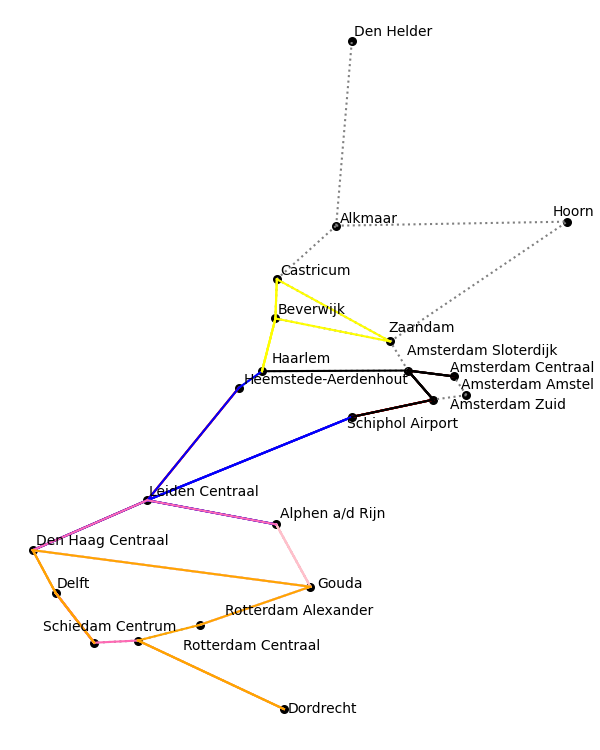
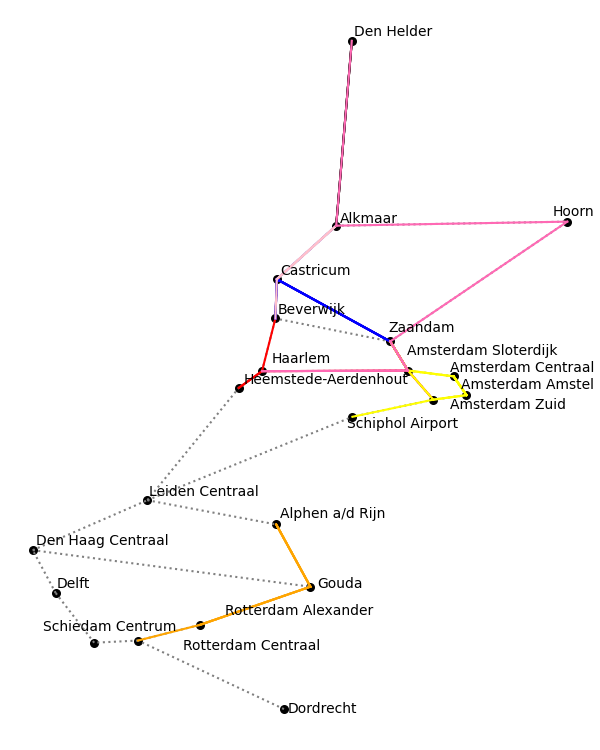
Visualisatie doet het weer

diff --git a/spoorschavuiten/code/visualization/visualize.py b/spoorschavuiten/code/visualization/visualize.py
@@ -5,7 +5,7 @@ from code.classes.classes import Schedule
 from adjustText import adjust_text # type: ignore
 
 #test
-def makeMap(region: Schedule) -> None:
+def makeMap(schedule: Schedule) -> None:
     '''
     All stations and connections are imported, stations are made to a dot on the plot.
     Connections are made to be a line between dots on the plot.  
@@ -18,22 +18,22 @@ def makeMap(region: Schedule) -> None:
 
     x = []
     y = []
-    drawDots(region, x, y)
-    drawLines(region, xConnection, yConnection)
+    drawDots(schedule, x, y)
+    drawLines(schedule, xConnection, yConnection)
 
     plt.grid(False)
 
 
-def onlyLines(region):
+def onlyLines(schedule):
     plt.style.use('_mpl-gallery')
     plt.figure(figsize=(6,7.5))
     xConnection = []
     yConnection = []
 
-    drawLines(region, xConnection, yConnection)
+    drawLines(schedule, xConnection, yConnection)
     plt.grid(False)
 
-def makeMapWithNames(region: Schedule) -> None:
+def makeMapWithNames(schedule: Schedule) -> None:
     '''
     All stations and connections are imported, stations are made to a dot on the plot.
     Connections are made to be a line between dots on the plot.  
@@ -44,44 +44,44 @@ def makeMapWithNames(region: Schedule) -> None:
     yConnection = []
     x = []
     y = []
-    drawDotsWithNames(region, x, y)
-    drawLines(region, xConnection, yConnection)
+    drawDotsWithNames(schedule, x, y)
+    drawLines(schedule, xConnection, yConnection)
 
     plt.grid(False)
 
 
-def visualizeMap(region: Schedule, name: str) -> None:
+def visualizeMap(schedule: Schedule, name: str) -> None:
     '''
     Draws a map of the train network of the Netherlands.
     '''
-    # makeMap(region)
-    # drawUsedConnections(region)
+    # makeMap(schedule)
+    # drawUsedConnections(schedule)
     plt.savefig(name)
     plt.show()
 
 
-def drawDots(region: Schedule, x: list, y: list) -> None:
+def drawDots(schedule: Schedule, x: list, y: list) -> None:
     '''
     Draw all stations as dots on the map.
     '''
     z = []
-    for station in region._stations:
-        x.append(region._stations[station]._x)
-        y.append(region._stations[station]._y)
-        # z.append(region._stations[station]._name)
+    for station in schedule._stations:
+        x.append(schedule._stations[station]._x)
+        y.append(schedule._stations[station]._y)
+        # z.append(schedule._stations[station]._name)
     plt.scatter(x, y, c= "black", s=30)
     plt.axis("off")
 
 
-def drawDotsWithNames(region: Schedule, x: list, y: list) -> None:
+def drawDotsWithNames(schedule: Schedule, x: list, y: list) -> None:
     '''
     Draw all stations as dots on the map.
     '''
     z = []
-    for station in region._stations:
-        x.append(region._stations[station]._x)
-        y.append(region._stations[station]._y)
-        z.append(region._stations[station]._name)
+    for station in schedule._stations:
+        x.append(schedule._stations[station]._x)
+        y.append(schedule._stations[station]._y)
+        z.append(schedule._stations[station]._name)
     plt.scatter(x, y, c= "black", s=30)
 
     # for i, txt in enumerate(z):
@@ -92,11 +92,11 @@ def drawDotsWithNames(region: Schedule, x: list, y: list) -> None:
     plt.axis("off")
 
 
-def drawLines(region: Schedule, xList: list, yList: list) -> None:
+def drawLines(schedule: Schedule, xList: list, yList: list) -> None:
     '''
     Draw all connections as lines on the map.
     '''
-    for connection in region._connections:
+    for connection in schedule._connections:
         xA = connection._stationA._x
         yA = connection._stationA._y
         xB = connection._stationB._x
@@ -112,11 +112,11 @@ def drawLines(region: Schedule, xList: list, yList: list) -> None:
         yList.clear()
 
 
-def drawUsedConnections(region: Schedule, color: list) -> None:
-# def drawUsedConnections(region: Region) -> None:
+def drawUsedConnections(schedule: Schedule, color: list) -> None:
+# def drawUsedConnections(schedule: schedule) -> None:
     xList = []
     yList = []
-    for i, route in enumerate(region._routes):
+    for i, route in enumerate(schedule._routes):
         for connection in route._route:
             xA = connection._stationA._x
             yA = connection._stationA._y

diff --git a/spoorschavuiten/main_visualisation.py b/spoorschavuiten/main_visualisation.py
@@ -6,32 +6,24 @@ from code.algorithms.randomWithConstraints import Random
 holland = Region("data/StationsHolland.csv", "data/ConnectiesHolland.csv")
 schedule = Schedule(holland)
 max_trains = 7
-# xConnections = []
-# yConnections = []
 colors = ["red", "blue", "pink", "black", "yellow",
         "hotpink", "orange", "violet", "cyan", "purple",
         "maroon", "indigo", "teal", "magenta", "crimson", "palevioletred", 
         "salmon", "deepskyblue", "deeppink", "darkviolet", "goldenrod"]
 
-# for i in range(max_trains):
-#     randomise2.random_route_2(holland)
-#     if holland.is_solution():
-#         break
-
-# randomWithConstraints.createRandomSolution(holland, 120, 7)
 random = Random(schedule, 120, 7)
 random.run()
 
 schedule.generate_output()
-makeMapWithNames(random)
-drawUsedConnections(random, colors)
-visualizeMap(random, "figures/connectionsWithStationNames.png")
+makeMapWithNames(schedule)
+drawUsedConnections(schedule, colors)
+visualizeMap(schedule, "figures/connectionsWithStationNames.png")
 
-# makeMap(holland)
-# drawUsedConnections(holland, colors)
-# visualizeMap(holland, "figures/connectionsInTheNetherlands.png")
+makeMap(schedule)
+drawUsedConnections(schedule, colors)
+visualizeMap(schedule, "figures/connectionsInTheNetherlands.png")
 
-# onlyLines(holland)
-# drawUsedConnections(holland, colors)
-# visualizeMap(holland, "figures/onlyLines.png")
-# print(len(colors))
+onlyLines(schedule)
+drawUsedConnections(schedule, colors)
+visualizeMap(schedule, "figures/onlyLines.png")
+print(len(colors))
